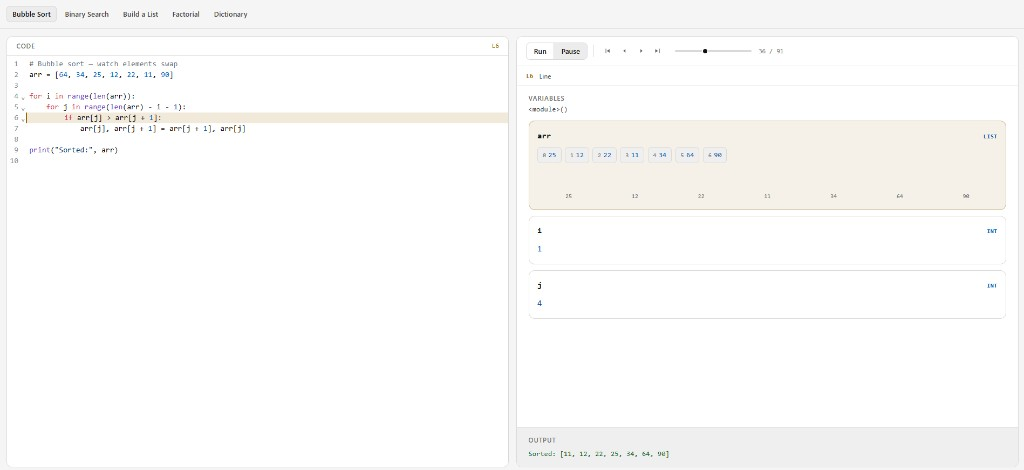
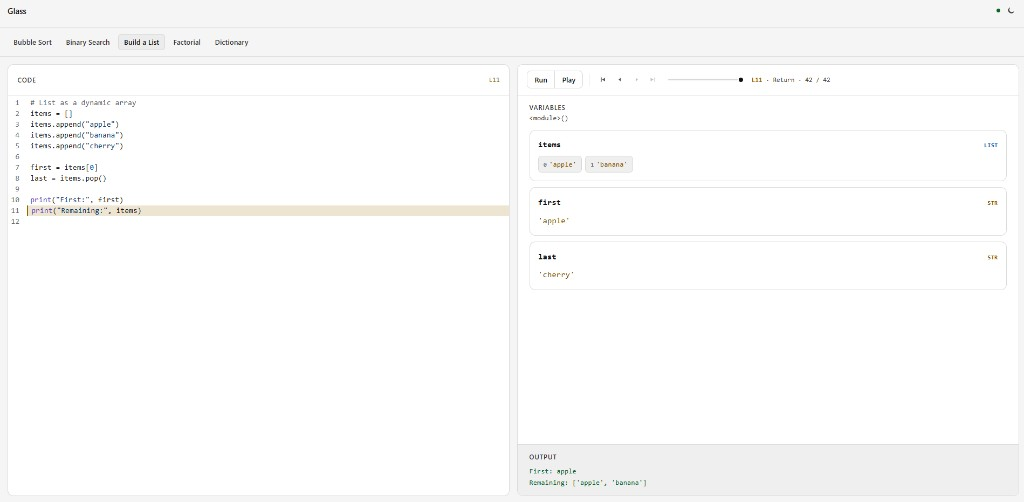
Align panel headers, simplify branding, and refresh README screenshot.

diff --git a/src/index.css b/src/index.css
@@ -149,6 +149,7 @@
     flex: 1;
     gap: 0.75rem;
     padding: 0.75rem 1.25rem 1.25rem;
+    align-items: stretch;
   }
 
   @media (min-width: 1024px) {
@@ -176,9 +177,30 @@
     flex-direction: column;
   }
 
-  .panel-header {
+  .panel-header,
+  .control-bar {
+    display: flex;
+    align-items: center;
+    min-height: 3.25rem;
+    padding: 0 1rem;
     border-bottom: 1px solid var(--border);
-    padding: 0.5rem 1rem;
+    box-sizing: border-box;
+  }
+
+  .panel-header {
+    justify-content: space-between;
+    gap: 0.75rem;
+  }
+
+  .panel-header-meta {
+    font-family: ui-monospace, monospace;
+    font-size: 11px;
+    font-variant-numeric: tabular-nums;
+    color: var(--highlight);
+  }
+
+  .panel-header-meta--idle {
+    color: var(--subtle);
   }
 
   .panel-divider {
@@ -193,12 +215,8 @@
   }
 
   .control-bar {
-    display: flex;
     flex-wrap: wrap;
-    align-items: center;
-    gap: 0.75rem 1rem;
-    padding: 0.625rem 1rem;
-    border-bottom: 1px solid var(--border);
+    gap: 0.5rem 0.75rem;
   }
 
   .control-actions {
@@ -223,10 +241,17 @@
 
   .control-count {
     flex-shrink: 0;
+    display: inline-flex;
+    align-items: center;
+    gap: 0.375rem;
     font-family: ui-monospace, monospace;
     font-size: 11px;
     font-variant-numeric: tabular-nums;
     color: var(--fg-secondary);
+  }
+
+  .control-count-sep {
+    color: var(--subtle);
   }
 
   .btn-group {
@@ -280,36 +305,14 @@
     gap: 0.125rem;
   }
 
-  .step-meta {
-    display: flex;
-    align-items: center;
-    gap: 0.625rem;
-    padding: 0.5rem 1rem;
-    border-bottom: 1px solid var(--border);
-    font-size: 11px;
-  }
-
-  .step-meta--empty {
-    color: var(--fg-secondary);
-  }
-
   .step-line {
-    font-family: ui-monospace, monospace;
     font-weight: 600;
-    font-variant-numeric: tabular-nums;
     color: var(--highlight);
   }
 
   .step-event {
     color: var(--fg-secondary);
     text-transform: capitalize;
-  }
-
-  .step-return {
-    color: var(--subtle);
-    overflow: hidden;
-    text-overflow: ellipsis;
-    white-space: nowrap;
   }
 
   .btn-primary {
@@ -544,19 +547,6 @@
   .output-panel {
     border-top: 1px solid var(--border);
     background-color: var(--elevated);
-  }
-
-  .logo-mark {
-    border-radius: 7px;
-    background-color: #141414;
-    box-shadow: inset 0 1px 0 rgba(255, 255, 255, 0.06);
-  }
-
-  .dark .logo-mark {
-    background-color: #1a1a1a;
-    box-shadow:
-      inset 0 1px 0 rgba(255, 255, 255, 0.08),
-      0 0 0 1px rgba(255, 255, 255, 0.06);
   }
 
   .code-editor .cm-editor,

diff --git a/src/components/VisualizationPanel.tsx b/src/components/VisualizationPanel.tsx
@@ -32,6 +32,7 @@ interface PlaybackControlsProps {
   isPlaying: boolean;
   isRunning: boolean;
   canRun: boolean;
+  step: TraceStep | null;
   onRun: () => void;
   onStepChange: (step: number) => void;
   onPlayPause: () => void;
@@ -45,6 +46,7 @@ function PlaybackControls({
   isPlaying,
   isRunning,
   canRun,
+  step,
   onRun,
   onStepChange,
   onPlayPause,
@@ -123,37 +125,17 @@ function PlaybackControls({
           disabled={disabled}
         />
         <span className="control-count">
+          {step ? (
+            <>
+              <span className="step-line">L{step.line}</span>
+              <span className="control-count-sep">·</span>
+              <span className="step-event">{step.event}</span>
+              <span className="control-count-sep">·</span>
+            </>
+          ) : null}
           {disabled ? "—" : `${currentStep + 1} / ${totalSteps}`}
         </span>
       </div>
-    </div>
-  );
-}
-
-function StepInfo({
-  step,
-  hasTrace,
-}: {
-  step: TraceStep | null;
-  hasTrace: boolean;
-}) {
-  if (!step) {
-    return (
-      <div className="step-meta step-meta--empty">
-        {hasTrace ? "No steps recorded" : "Run to trace execution, then Play to step through"}
-      </div>
-    );
-  }
-
-  return (
-    <div className="step-meta">
-      <span className="step-line">L{step.line}</span>
-      <span className="step-event">{step.event}</span>
-      {step.event === "return" && "returnValue" in step && (
-        <span className="step-return font-mono">
-          {(step as TraceStep & { returnValue?: string }).returnValue}
-        </span>
-      )}
     </div>
   );
 }
@@ -165,7 +147,6 @@ interface VisualizationPanelProps {
   isPlaying: boolean;
   isRunning: boolean;
   canRun: boolean;
-  hasTrace: boolean;
   stdout: string;
   onRun: () => void;
   onStepChange: (step: number) => void;
@@ -181,7 +162,6 @@ export function VisualizationPanel({
   isPlaying,
   isRunning,
   canRun,
-  hasTrace,
   stdout,
   onRun,
   onStepChange,
@@ -201,14 +181,13 @@ export function VisualizationPanel({
         isPlaying={isPlaying}
         isRunning={isRunning}
         canRun={canRun}
+        step={step}
         onRun={onRun}
         onStepChange={onStepChange}
         onPlayPause={onPlayPause}
         onFirst={onFirst}
         onLast={onLast}
       />
-
-      <StepInfo step={step} hasTrace={hasTrace} />
 
       <div className="grid min-h-0 flex-1 grid-rows-[1fr_auto]">
         <VariablePanel

diff --git a/src/App.tsx b/src/App.tsx
@@ -1,6 +1,5 @@
 import { useCallback, useEffect, useRef, useState } from "react";
 import { CodeEditor } from "./components/CodeEditor";
-import { Logo } from "./components/Logo";
 import { ThemeToggle } from "./components/ThemeToggle";
 import { VisualizationPanel } from "./components/VisualizationPanel";
 import { EXAMPLES } from "./examples";
@@ -107,10 +106,7 @@ export default function App() {
   return (
     <div className="app-shell flex h-screen flex-col">
       <header className="app-header">
-        <div className="flex min-w-0 items-center gap-2.5">
-          <Logo size={18} />
-          <h1 className="brand-title">Glass</h1>
-        </div>
+        <h1 className="brand-title">Glass</h1>
 
         <div className="flex shrink-0 items-center gap-1">
           {loadStatus === "loading" && (
@@ -168,13 +164,13 @@ export default function App() {
 
       <main className="app-main">
         <section className="panel panel--code">
-          <div className="panel-header flex items-center justify-between px-4 py-2">
+          <div className="panel-header">
             <span className="label">Code</span>
-            {currentStep && (
-              <span className="font-mono text-[11px] tabular-nums text-highlight">
-                L{currentStep.line}
-              </span>
-            )}
+            <span
+              className={`panel-header-meta ${currentStep ? "" : "panel-header-meta--idle"}`}
+            >
+              {currentStep ? `L${currentStep.line}` : "—"}
+            </span>
           </div>
           <div className="min-h-0 flex-1">
             <CodeEditor
@@ -194,7 +190,6 @@ export default function App() {
             isPlaying={isPlaying}
             isRunning={isLoading}
             canRun={loadStatus === "ready"}
-            hasTrace={traceResult !== null}
             stdout={traceResult?.stdout ?? ""}
             onRun={handleRun}
             onStepChange={(i) => {

diff --git a/README.md b/README.md
@@ -2,7 +2,7 @@
 
 Step through Python code and watch variables change — entirely in your browser.
 
-![Glass — bubble sort visualization](docs/screenshot.png)
+![Glass — build a list visualization](docs/screenshot.png)
 
 ## Quick start
 